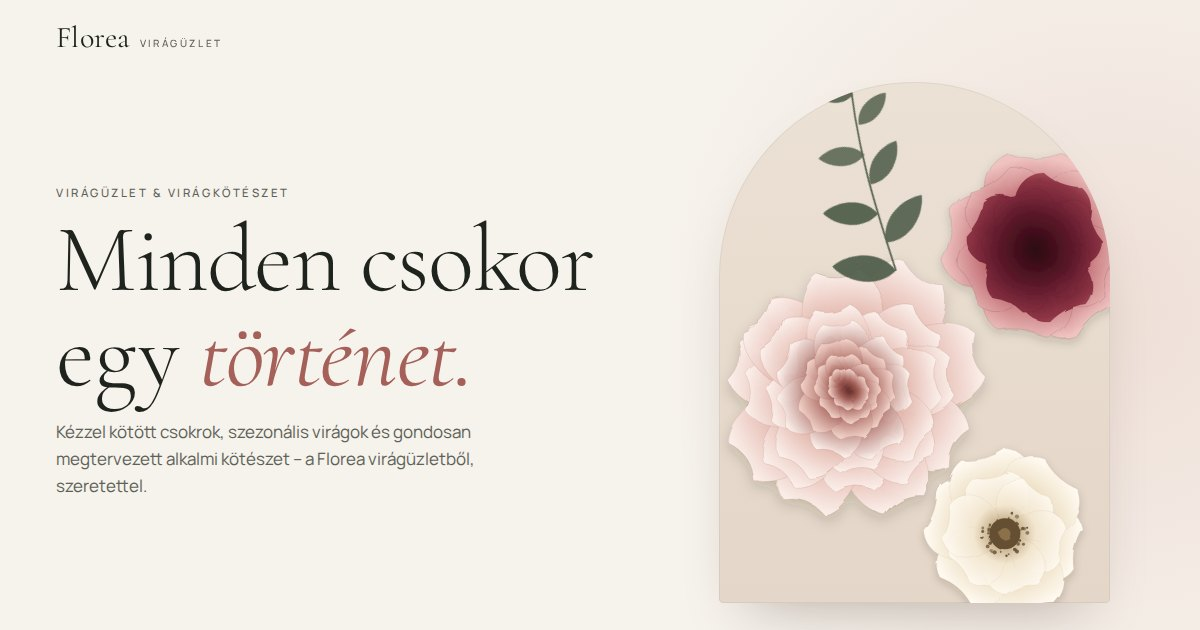
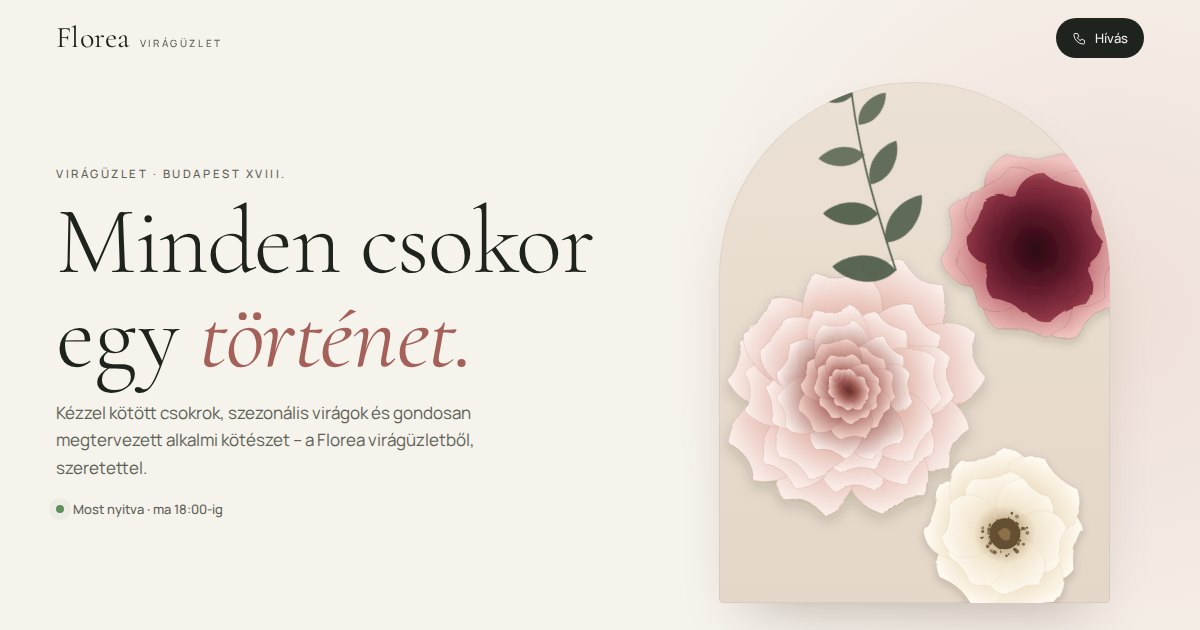
Elérhetőségek és nyitvatartás: 1183 Budapest, Nefelejcs u. 95.
Telefon: +36 70 250 7296; nyitva minden nap 7:00–18:00.
Helyi keresőknek: cím a címben, leírásban és strukturált adatban.

Claude-Session: https://claude.ai/code/session_01XwHJMnrnFw7AtwrN7ggRJK

Changed region(s): [[0.0308, 0.2714, 0.4933, 0.8143], [0.8633, 0.0302, 0.9558, 0.0905]]

diff --git a/public/index.html b/public/index.html
@@ -3,11 +3,11 @@
 <head>
   <meta charset="utf-8">
   <meta name="viewport" content="width=device-width, initial-scale=1, viewport-fit=cover">
-  <title>Florea Virágüzlet · Kézzel kötött csokrok és virágkötészet</title>
-  <meta name="description" content="Florea Virágüzlet: kézzel kötött csokrok, szálas virágok, cserepes növények, virágdobozok, esküvői és kegyeleti kötészet – egyedi stílusban, gondos válogatással.">
+  <title>Florea Virágüzlet · Budapest XVIII., Nefelejcs u. 95.</title>
+  <meta name="description" content="Florea Virágüzlet Budapest XVIII. kerületében, a Nefelejcs u. 95. alatt. Kézzel kötött csokrok, szálas virágok, cserepes növények, esküvői és kegyeleti kötészet – a hét minden napján 7 és 18 óra között nyitva.">
   <meta name="theme-color" content="#f6f2ec">
   <meta property="og:title" content="Florea Virágüzlet">
-  <meta property="og:description" content="Kézzel kötött csokrok, szezonális virágok és alkalmi kötészet – egyedi stílusban.">
+  <meta property="og:description" content="Kézzel kötött csokrok Budapest XVIII. kerületében – a hét minden napján 7–18 óráig nyitva.">
   <meta property="og:type" content="website">
   <meta property="og:locale" content="hu_HU">
   <!-- Élesítéskor: <meta property="og:image" content="https://SAJAT-DOMAIN/assets/og.jpg"> (teljes URL kell) -->
@@ -21,7 +21,60 @@
   "@context": "https://schema.org",
   "@type": "Florist",
   "name": "Florea Virágüzlet",
-  "description": "Virágüzlet és virágkötészet: kézzel kötött csokrok, szálas virágok, cserepes növények, esküvői és kegyeleti kötészet."
+  "description": "Virágüzlet és virágkötészet: kézzel kötött csokrok, szálas virágok, cserepes növények, esküvői és kegyeleti kötészet.",
+  "telephone": "+36 70 250 7296",
+  "address": {
+    "@type": "PostalAddress",
+    "streetAddress": "Nefelejcs u. 95.",
+    "postalCode": "1183",
+    "addressLocality": "Budapest",
+    "addressRegion": "XVIII. kerület",
+    "addressCountry": "HU"
+  },
+  "openingHoursSpecification": [
+    {
+      "@type": "OpeningHoursSpecification",
+      "dayOfWeek": "Sunday",
+      "opens": "07:00",
+      "closes": "18:00"
+    },
+    {
+      "@type": "OpeningHoursSpecification",
+      "dayOfWeek": "Monday",
+      "opens": "07:00",
+      "closes": "18:00"
+    },
+    {
+      "@type": "OpeningHoursSpecification",
+      "dayOfWeek": "Tuesday",
+      "opens": "07:00",
+      "closes": "18:00"
+    },
+    {
+      "@type": "OpeningHoursSpecification",
+      "dayOfWeek": "Wednesday",
+      "opens": "07:00",
+      "closes": "18:00"
+    },
+    {
+      "@type": "OpeningHoursSpecification",
+      "dayOfWeek": "Thursday",
+      "opens": "07:00",
+      "closes": "18:00"
+    },
+    {
+      "@type": "OpeningHoursSpecification",
+      "dayOfWeek": "Friday",
+      "opens": "07:00",
+      "closes": "18:00"
+    },
+    {
+      "@type": "OpeningHoursSpecification",
+      "dayOfWeek": "Saturday",
+      "opens": "07:00",
+      "closes": "18:00"
+    }
+  ]
 }
   </script>
 </head>
@@ -43,7 +96,7 @@
       <a href="#galeria">Galéria</a>
       <a href="#kapcsolat">Kapcsolat</a>
     </nav>
-    <div class="nav__end" data-fill="navCta"><!--fill--><!--/fill--></div>
+    <div class="nav__end" data-fill="navCta"><!--fill--><a class="nav__cta" href="tel:+36702507296"><svg class="ico" viewBox="0 0 24 24" aria-hidden="true" focusable="false"><path d="M5 4h4l2 5-2.5 1.5a11 11 0 0 0 5 5L15 13l5 2v4a2 2 0 0 1-2 2A16 16 0 0 1 3 6a2 2 0 0 1 2-2"/></svg><span>Hívás</span></a><!--/fill--></div>
     <button class="nav__toggle" type="button" aria-expanded="false" aria-controls="menu" aria-label="Menü megnyitása">
       <span></span><span></span>
     </button>
@@ -69,10 +122,10 @@
   <section class="hero" aria-labelledby="hero-title">
     <div class="hero__inner">
       <div class="hero__text">
-        <p class="eyebrow">Virágüzlet &amp; virágkötészet</p>
+        <p class="eyebrow">Virágüzlet · Budapest XVIII.</p>
         <h1 id="hero-title" class="hero__title">Minden csokor<br>egy <em>történet.</em></h1>
         <p class="hero__lead">Kézzel kötött csokrok, szezonális virágok és gondosan megtervezett alkalmi kötészet – a&nbsp;Florea virágüzletből, szeretettel.</p>
-        <div class="hero__cta" data-fill="heroCta"><!--fill--><a class="btn btn--solid" href="#kollekcio"><span>A kollekció</span><svg class="ico" viewBox="0 0 24 24" aria-hidden="true" focusable="false"><path d="M5 12h14M13 6l6 6-6 6"/></svg></a><a class="btn btn--ghost" href="#alkalmak"><span>Alkalmak</span><svg class="ico" viewBox="0 0 24 24" aria-hidden="true" focusable="false"><path d="M5 12h14M13 6l6 6-6 6"/></svg></a><!--/fill--></div>
+        <div class="hero__cta" data-fill="heroCta"><!--fill--><a class="btn btn--solid" href="tel:+36702507296"><svg class="ico" viewBox="0 0 24 24" aria-hidden="true" focusable="false"><path d="M5 4h4l2 5-2.5 1.5a11 11 0 0 0 5 5L15 13l5 2v4a2 2 0 0 1-2 2A16 16 0 0 1 3 6a2 2 0 0 1 2-2"/></svg><span>Hívjon minket</span></a><a class="btn btn--ghost" href="#kollekcio"><span>A kollekció</span><svg class="ico" viewBox="0 0 24 24" aria-hidden="true" focusable="false"><path d="M5 12h14M13 6l6 6-6 6"/></svg></a><!--/fill--></div>
         <span class="status" data-status hidden><i class="status__dot"></i><span class="status__text"></span></span>
       </div>
       <div class="hero__visual">
@@ -370,16 +423,29 @@
       <header class="shead" data-reveal>
         <p class="shead__num">06 — Kapcsolat</p>
         <h2 id="kapcsolat-title" class="shead__title">Várjuk<br><em>szeretettel.</em></h2>
-        <p class="contact__lead">Rendeléssel, kérdéssel vagy csak egy jó ötletért – keressen minket bizalommal.</p>
+        <p class="contact__lead">A hét minden napján, reggel 7-től este 6-ig nyitva vagyunk. Rendeléssel, kérdéssel vagy csak egy jó ötletért – hívjon, vagy nézzen be hozzánk.</p>
       </header>
       <div class="contact__body" data-reveal>
-        <div class="crows" data-fill="contact"><!--fill--><div class="crow crow--static">
-        <span class="crow__ico"><svg class="ico" viewBox="0 0 24 24" aria-hidden="true" focusable="false"><path d="M4 5h16v11H8l-4 4z"/></svg></span>
-        <span class="crow__body"><span class="crow__label">Elérhetőség</span><span class="crow__value">Elérhetőségeink hamarosan itt olvashatók.</span></span>
+        <div class="crows" data-fill="contact"><!--fill--><a class="crow" href="tel:+36702507296">
+        <span class="crow__ico"><svg class="ico" viewBox="0 0 24 24" aria-hidden="true" focusable="false"><path d="M5 4h4l2 5-2.5 1.5a11 11 0 0 0 5 5L15 13l5 2v4a2 2 0 0 1-2 2A16 16 0 0 1 3 6a2 2 0 0 1 2-2"/></svg></span>
+        <span class="crow__body"><span class="crow__label">Telefon</span><span class="crow__value">+36 70 250 7296</span></span>
+        <span class="crow__go"><svg class="ico" viewBox="0 0 24 24" aria-hidden="true" focusable="false"><path d="M5 12h14M13 6l6 6-6 6"/></svg></span>
+      </a>
+      <a class="crow" href="https://www.google.com/maps/dir/?api=1&amp;destination=1183%20Budapest%2C%20Nefelejcs%20u.%2095." target="_blank" rel="noopener">
+        <span class="crow__ico"><svg class="ico" viewBox="0 0 24 24" aria-hidden="true" focusable="false"><path d="M12 21s-7-6.2-7-11.5a7 7 0 0 1 14 0C19 14.8 12 21 12 21z"/><circle cx="12" cy="9.5" r="2.5"/></svg></span>
+        <span class="crow__body"><span class="crow__label">Cím · útvonaltervezés</span><span class="crow__value">1183 Budapest, Nefelejcs u. 95.</span></span>
+        <span class="crow__go"><svg class="ico" viewBox="0 0 24 24" aria-hidden="true" focusable="false"><path d="M5 12h14M13 6l6 6-6 6"/></svg></span>
+      </a><!--/fill--></div>
+        <div data-fill="hoursBlock" data-fill-hide><!--fill--><div class="hours">
+        <div class="hours__head"><svg class="ico" viewBox="0 0 24 24" aria-hidden="true" focusable="false"><circle cx="12" cy="12" r="9"/><path d="M12 7v5l3 2"/></svg><h3>Nyitvatartás</h3><span class="status status--sm" data-status hidden><i class="status__dot"></i><span class="status__text"></span></span></div>
+        <ul class="hours__list"><li><span>Hétfő</span><span>07:00 – 18:00</span></li><li><span>Kedd</span><span>07:00 – 18:00</span></li><li><span>Szerda</span><span>07:00 – 18:00</span></li><li><span>Csütörtök</span><span>07:00 – 18:00</span></li><li><span>Péntek</span><span>07:00 – 18:00</span></li><li><span>Szombat</span><span>07:00 – 18:00</span></li><li><span>Vasárnap</span><span>07:00 – 18:00</span></li></ul>
       </div><!--/fill--></div>
-        <div data-fill="hoursBlock" data-fill-hide hidden><!--fill--><!--/fill--></div>
       </div>
-      <div class="contact__map" data-fill="map" data-fill-hide hidden><!--fill--><!--/fill--></div>
+      <div class="contact__map" data-fill="map" data-fill-hide><!--fill--><div class="mapbox">
+        <button class="mapbox__load" type="button" data-map-src="https://www.google.com/maps?q=1183%20Budapest%2C%20Nefelejcs%20u.%2095.&amp;output=embed">
+          <svg class="ico" viewBox="0 0 24 24" aria-hidden="true" focusable="false"><path d="M12 21s-7-6.2-7-11.5a7 7 0 0 1 14 0C19 14.8 12 21 12 21z"/><circle cx="12" cy="9.5" r="2.5"/></svg><span>Térkép betöltése</span><small>A Google Térkép csak kattintásra töltődik be.</small>
+        </button>
+      </div><!--/fill--></div>
     </div>
   </section>
 
@@ -390,7 +456,7 @@
   <div class="wrap">
     <p class="foot__mark">Florea</p>
     <div class="foot__row">
-      <p class="foot__contact" data-fill="footerContact"><!--fill--><!--/fill--></p>
+      <p class="foot__contact" data-fill="footerContact"><!--fill--><span>1183 Budapest, Nefelejcs u. 95.</span><a href="tel:+36702507296">+36 70 250 7296</a><!--/fill--></p>
       <nav class="foot__nav" aria-label="Lábléc navigáció">
         <a href="#bolt">A bolt</a><a href="#kollekcio">Kollekció</a><a href="#galeria">Galéria</a><a href="#kapcsolat">Kapcsolat</a>
       </nav>
@@ -400,7 +466,7 @@
 </footer>
 
 <!-- Telefonon alul mindig kéznél -->
-<div class="actionbar" data-fill="actionbar"><!--fill--><a class="actionbar__btn" href="#kollekcio"><svg class="ico" viewBox="0 0 24 24" aria-hidden="true" focusable="false"><path d="M5 12h14M13 6l6 6-6 6"/></svg><span>Kollekció</span></a><!--/fill--></div>
+<div class="actionbar" data-fill="actionbar"><!--fill--><a class="actionbar__btn actionbar__btn--main" href="tel:+36702507296"><svg class="ico" viewBox="0 0 24 24" aria-hidden="true" focusable="false"><path d="M5 4h4l2 5-2.5 1.5a11 11 0 0 0 5 5L15 13l5 2v4a2 2 0 0 1-2 2A16 16 0 0 1 3 6a2 2 0 0 1 2-2"/></svg><span>Hívás</span></a><a class="actionbar__btn" href="https://www.google.com/maps/dir/?api=1&amp;destination=1183%20Budapest%2C%20Nefelejcs%20u.%2095." target="_blank" rel="noopener"><svg class="ico" viewBox="0 0 24 24" aria-hidden="true" focusable="false"><path d="M12 21s-7-6.2-7-11.5a7 7 0 0 1 14 0C19 14.8 12 21 12 21z"/><circle cx="12" cy="9.5" r="2.5"/></svg><span>Útvonal</span></a><!--/fill--></div>
 
 <!-- Galéria nagyítás -->
 <dialog class="lightbox" id="lightbox" aria-label="Kép nagyítva">
@@ -413,6 +479,6 @@
   <button class="lightbox__btn lightbox__next" type="button" data-lb="next" aria-label="Következő kép"><svg viewBox="0 0 24 24" aria-hidden="true"><path d="M5 12h14M13 6l6 6-6 6"/></svg></button>
 </dialog>
 
-<script src="script.js?v=b5106060" defer></script>
+<script src="script.js?v=fd5e3259" defer></script>
 </body>
 </html>

diff --git a/public/script.js b/public/script.js
@@ -8,17 +8,24 @@
 
 const SHOP = {
   name: "Florea Virágüzlet",
-  phone: null,          // pl. "+36 30 123 4567"
+  phone: "+36 70 250 7296",
   email: null,          // pl. "hello@florea.hu"
-  address: null,        // pl. "1234 Város, Fő utca 1."
+  address: "1183 Budapest, Nefelejcs u. 95.",
+  // A keresőknek (strukturált adat) – a fenti cím részei
+  addressParts: { streetAddress: "Nefelejcs u. 95.", postalCode: "1183", addressLocality: "Budapest", addressRegion: "XVIII. kerület", addressCountry: "HU" },
   facebook: null,       // pl. "https://www.facebook.com/florea"
   instagram: null,      // pl. "https://www.instagram.com/florea"
   // Nyitvatartás: 0 = vasárnap … 6 = szombat, ["08:00", "18:00"] formában; null = zárva.
   // Ha az egész hours null, az oldal nem mutat nyitvatartást és élő nyitva/zárva jelzést.
-  hours: null,
-  // Pl.:
-  // hours: { 1: ["08:00", "18:00"], 2: ["08:00", "18:00"], 3: ["08:00", "18:00"],
-  //          4: ["08:00", "18:00"], 5: ["08:00", "18:00"], 6: ["08:00", "13:00"], 0: null },
+  hours: {
+    1: ["07:00", "18:00"],
+    2: ["07:00", "18:00"],
+    3: ["07:00", "18:00"],
+    4: ["07:00", "18:00"],
+    5: ["07:00", "18:00"],
+    6: ["07:00", "18:00"],
+    0: ["07:00", "18:00"],
+  },
   // A nyitókép fotója (assets/photos/ mappából). Ha null, rajzolt virágkompozíció látszik.
   heroPhoto: null,      // pl. "assets/photos/nyitokep.jpg"
 };
@@ -61,6 +68,8 @@ const reduceMotion = window.matchMedia("(prefers-reduced-motion: reduce)").match
 const esc = (s) => String(s).replace(/[&<>"']/g, (c) => ({ "&": "&amp;", "<": "&lt;", ">": "&gt;", '"': "&quot;", "'": "&#39;" }[c]));
 const nbsp = (s) => s.replace(/ /g, " "); // nem törhető szóköz: a telefonszám nem esik két sorba
 
+// A házszám ne kerüljön új sorba az utcanévtől ("u. 95.")
+const addrText = () => esc(SHOP.address).replace(/ (?=\d)/g, "\u00a0");
 const telHref = () => "tel:" + SHOP.phone.replace(/[^\d+]/g, "");
 const mapsHref = () => "https://www.google.com/maps/dir/?api=1&destination=" + encodeURIComponent(SHOP.address);
 const mapEmbed = () => "https://www.google.com/maps?q=" + encodeURIComponent(SHOP.address) + "&output=embed";
@@ -257,7 +266,7 @@ function contactHTML() {
   if (SHOP.address) rows.push(`
       <a class="crow" href="${esc(mapsHref())}" target="_blank" rel="noopener">
         <span class="crow__ico">${icon("pin")}</span>
-        <span class="crow__body"><span class="crow__label">Cím · útvonaltervezés</span><span class="crow__value">${esc(SHOP.address)}</span></span>
+        <span class="crow__body"><span class="crow__label">Cím · útvonaltervezés</span><span class="crow__value">${addrText()}</span></span>
         <span class="crow__go">${icon("arrow")}</span>
       </a>`);
   if (SHOP.email) rows.push(`
@@ -307,7 +316,7 @@ function mapHTML() {
 
 function footerContactHTML() {
   const parts = [];
-  if (SHOP.address) parts.push(`<span>${esc(SHOP.address)}</span>`);
+  if (SHOP.address) parts.push(`<span>${addrText()}</span>`);
   if (SHOP.phone) parts.push(`<a href="${telHref()}">${nbsp(esc(SHOP.phone))}</a>`);
   if (SHOP.email) parts.push(`<a href="mailto:${esc(SHOP.email)}">${esc(SHOP.email)}</a>`);
   if (SHOP.facebook) parts.push(`<a href="${esc(SHOP.facebook)}" target="_blank" rel="noopener">Facebook</a>`);
@@ -366,7 +375,7 @@ function jsonLd() {
   };
   if (SHOP.phone) d.telephone = SHOP.phone;
   if (SHOP.email) d.email = SHOP.email;
-  if (SHOP.address) d.address = SHOP.address;
+  if (SHOP.address) d.address = SHOP.addressParts ? { "@type": "PostalAddress", ...SHOP.addressParts } : SHOP.address;
   const same = [SHOP.facebook, SHOP.instagram].filter(Boolean);
   if (same.length) d.sameAs = same;
   if (SHOP.hours) {
